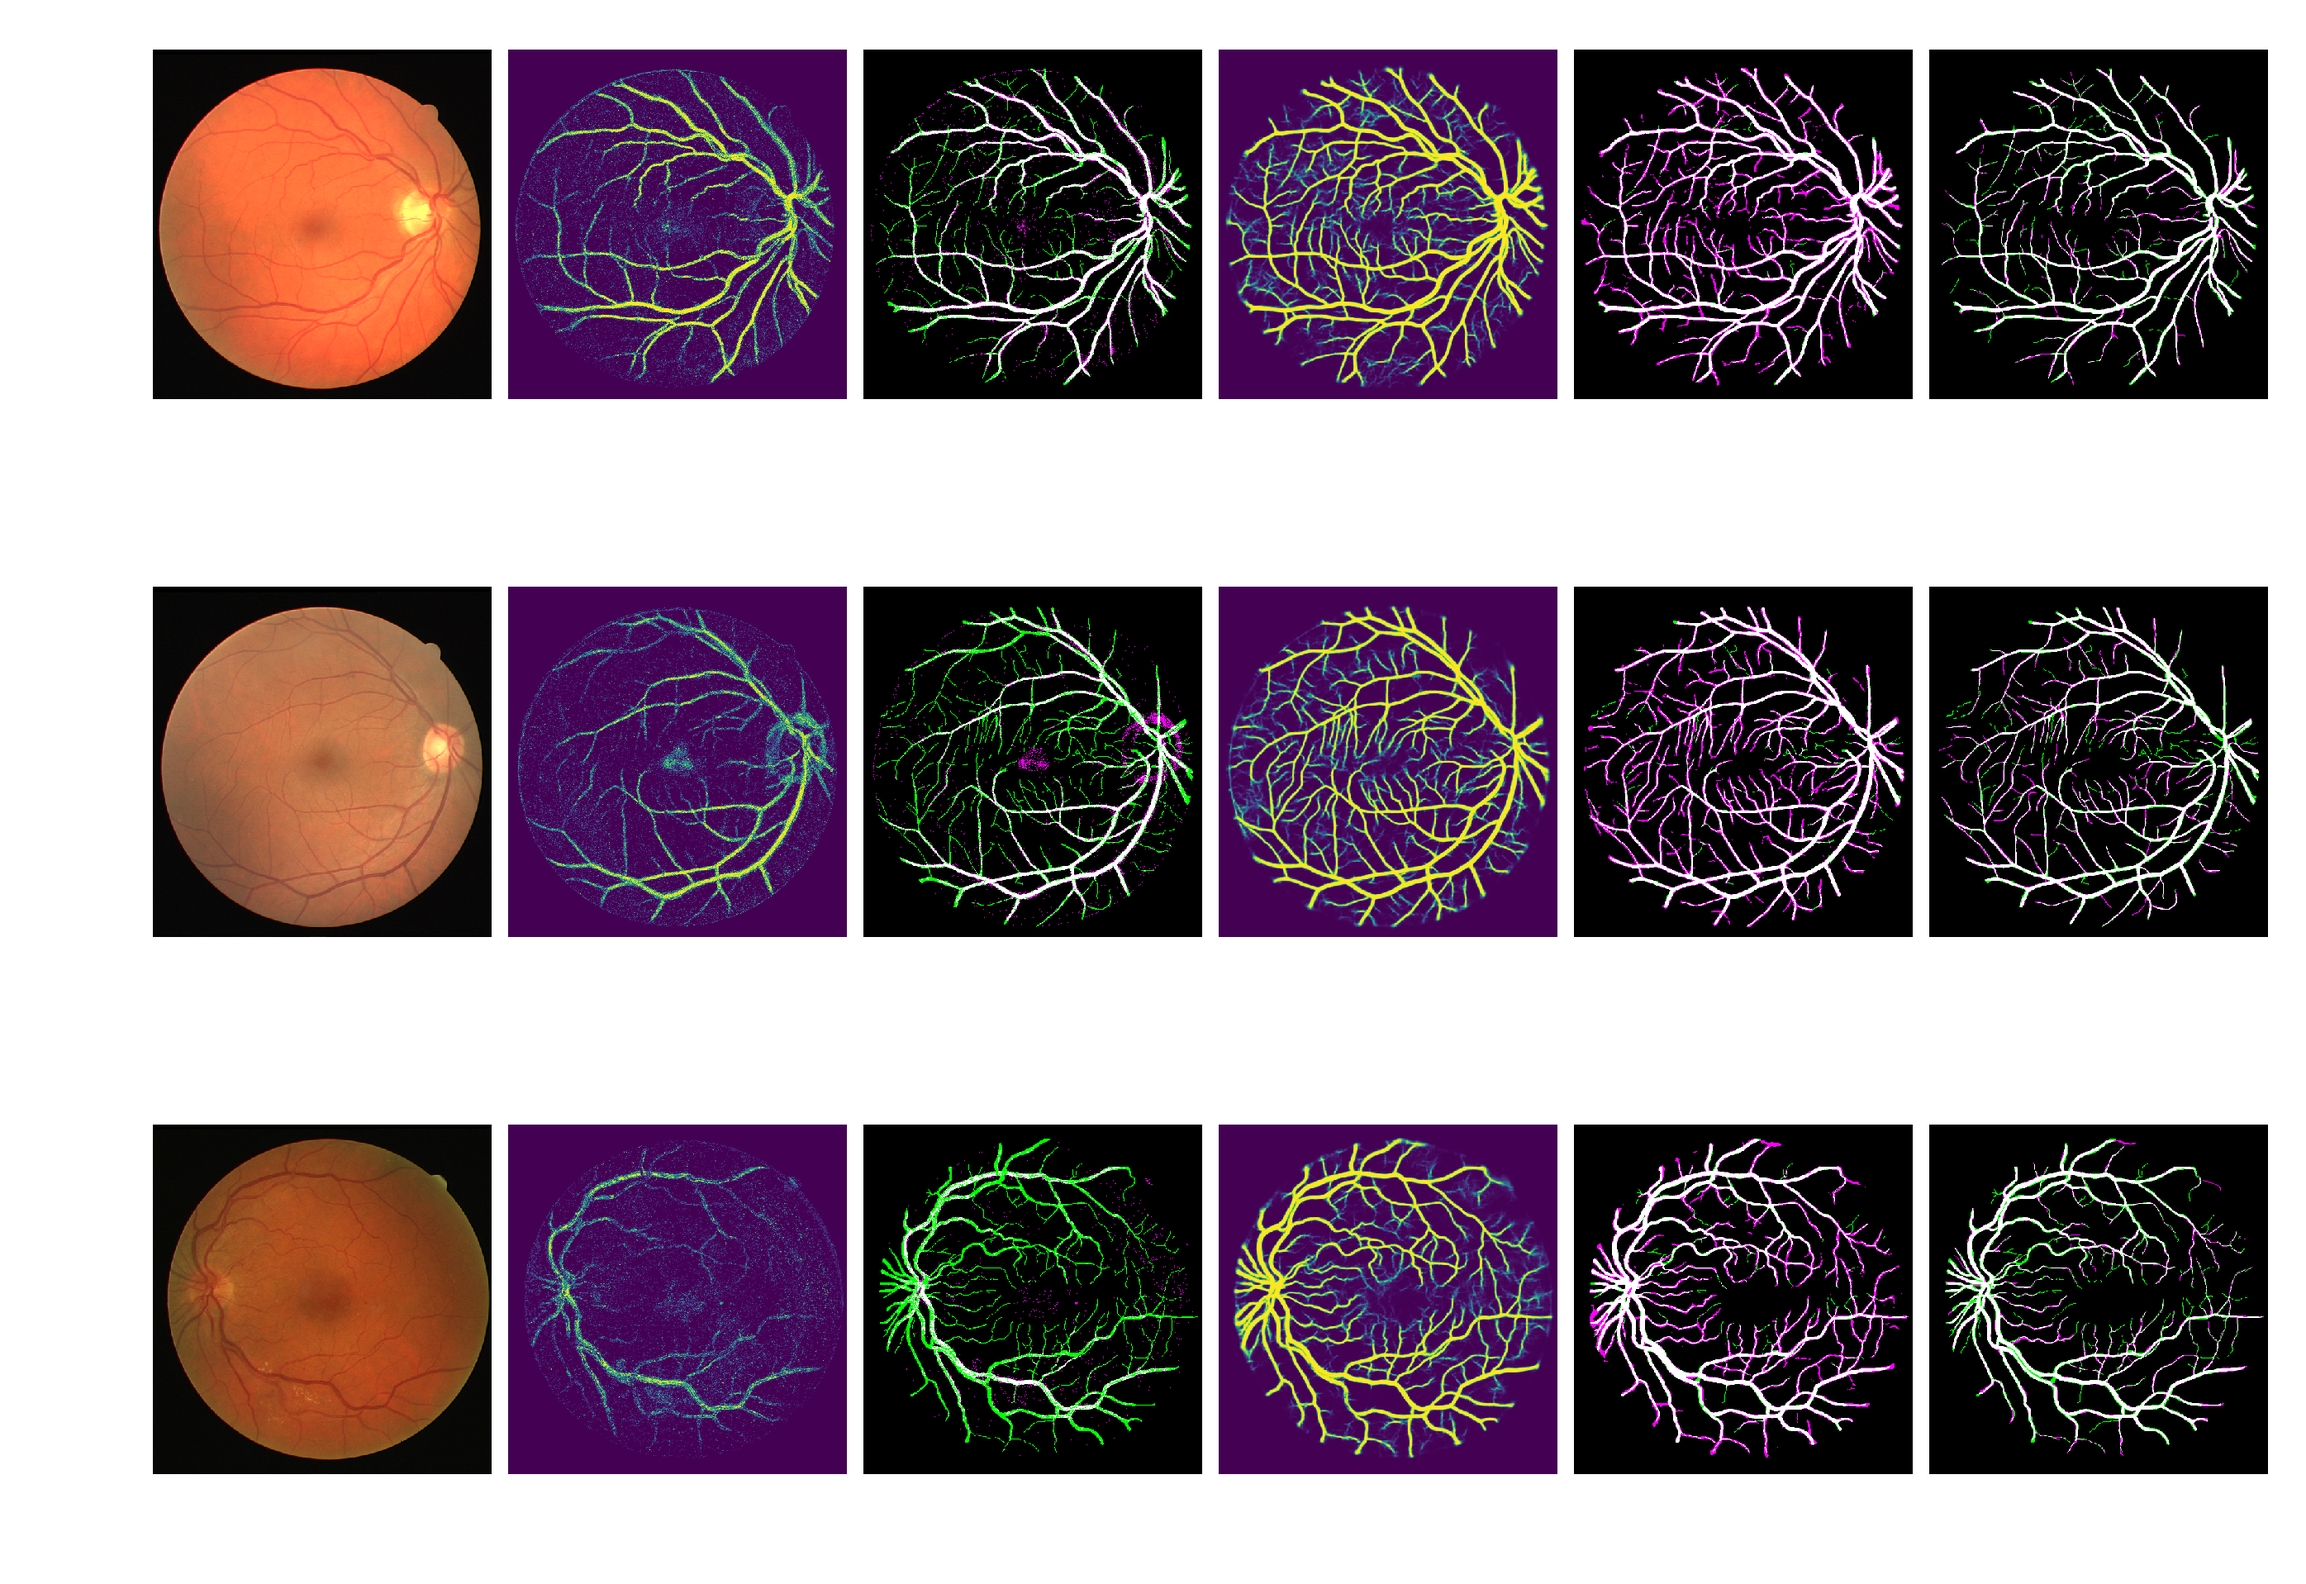
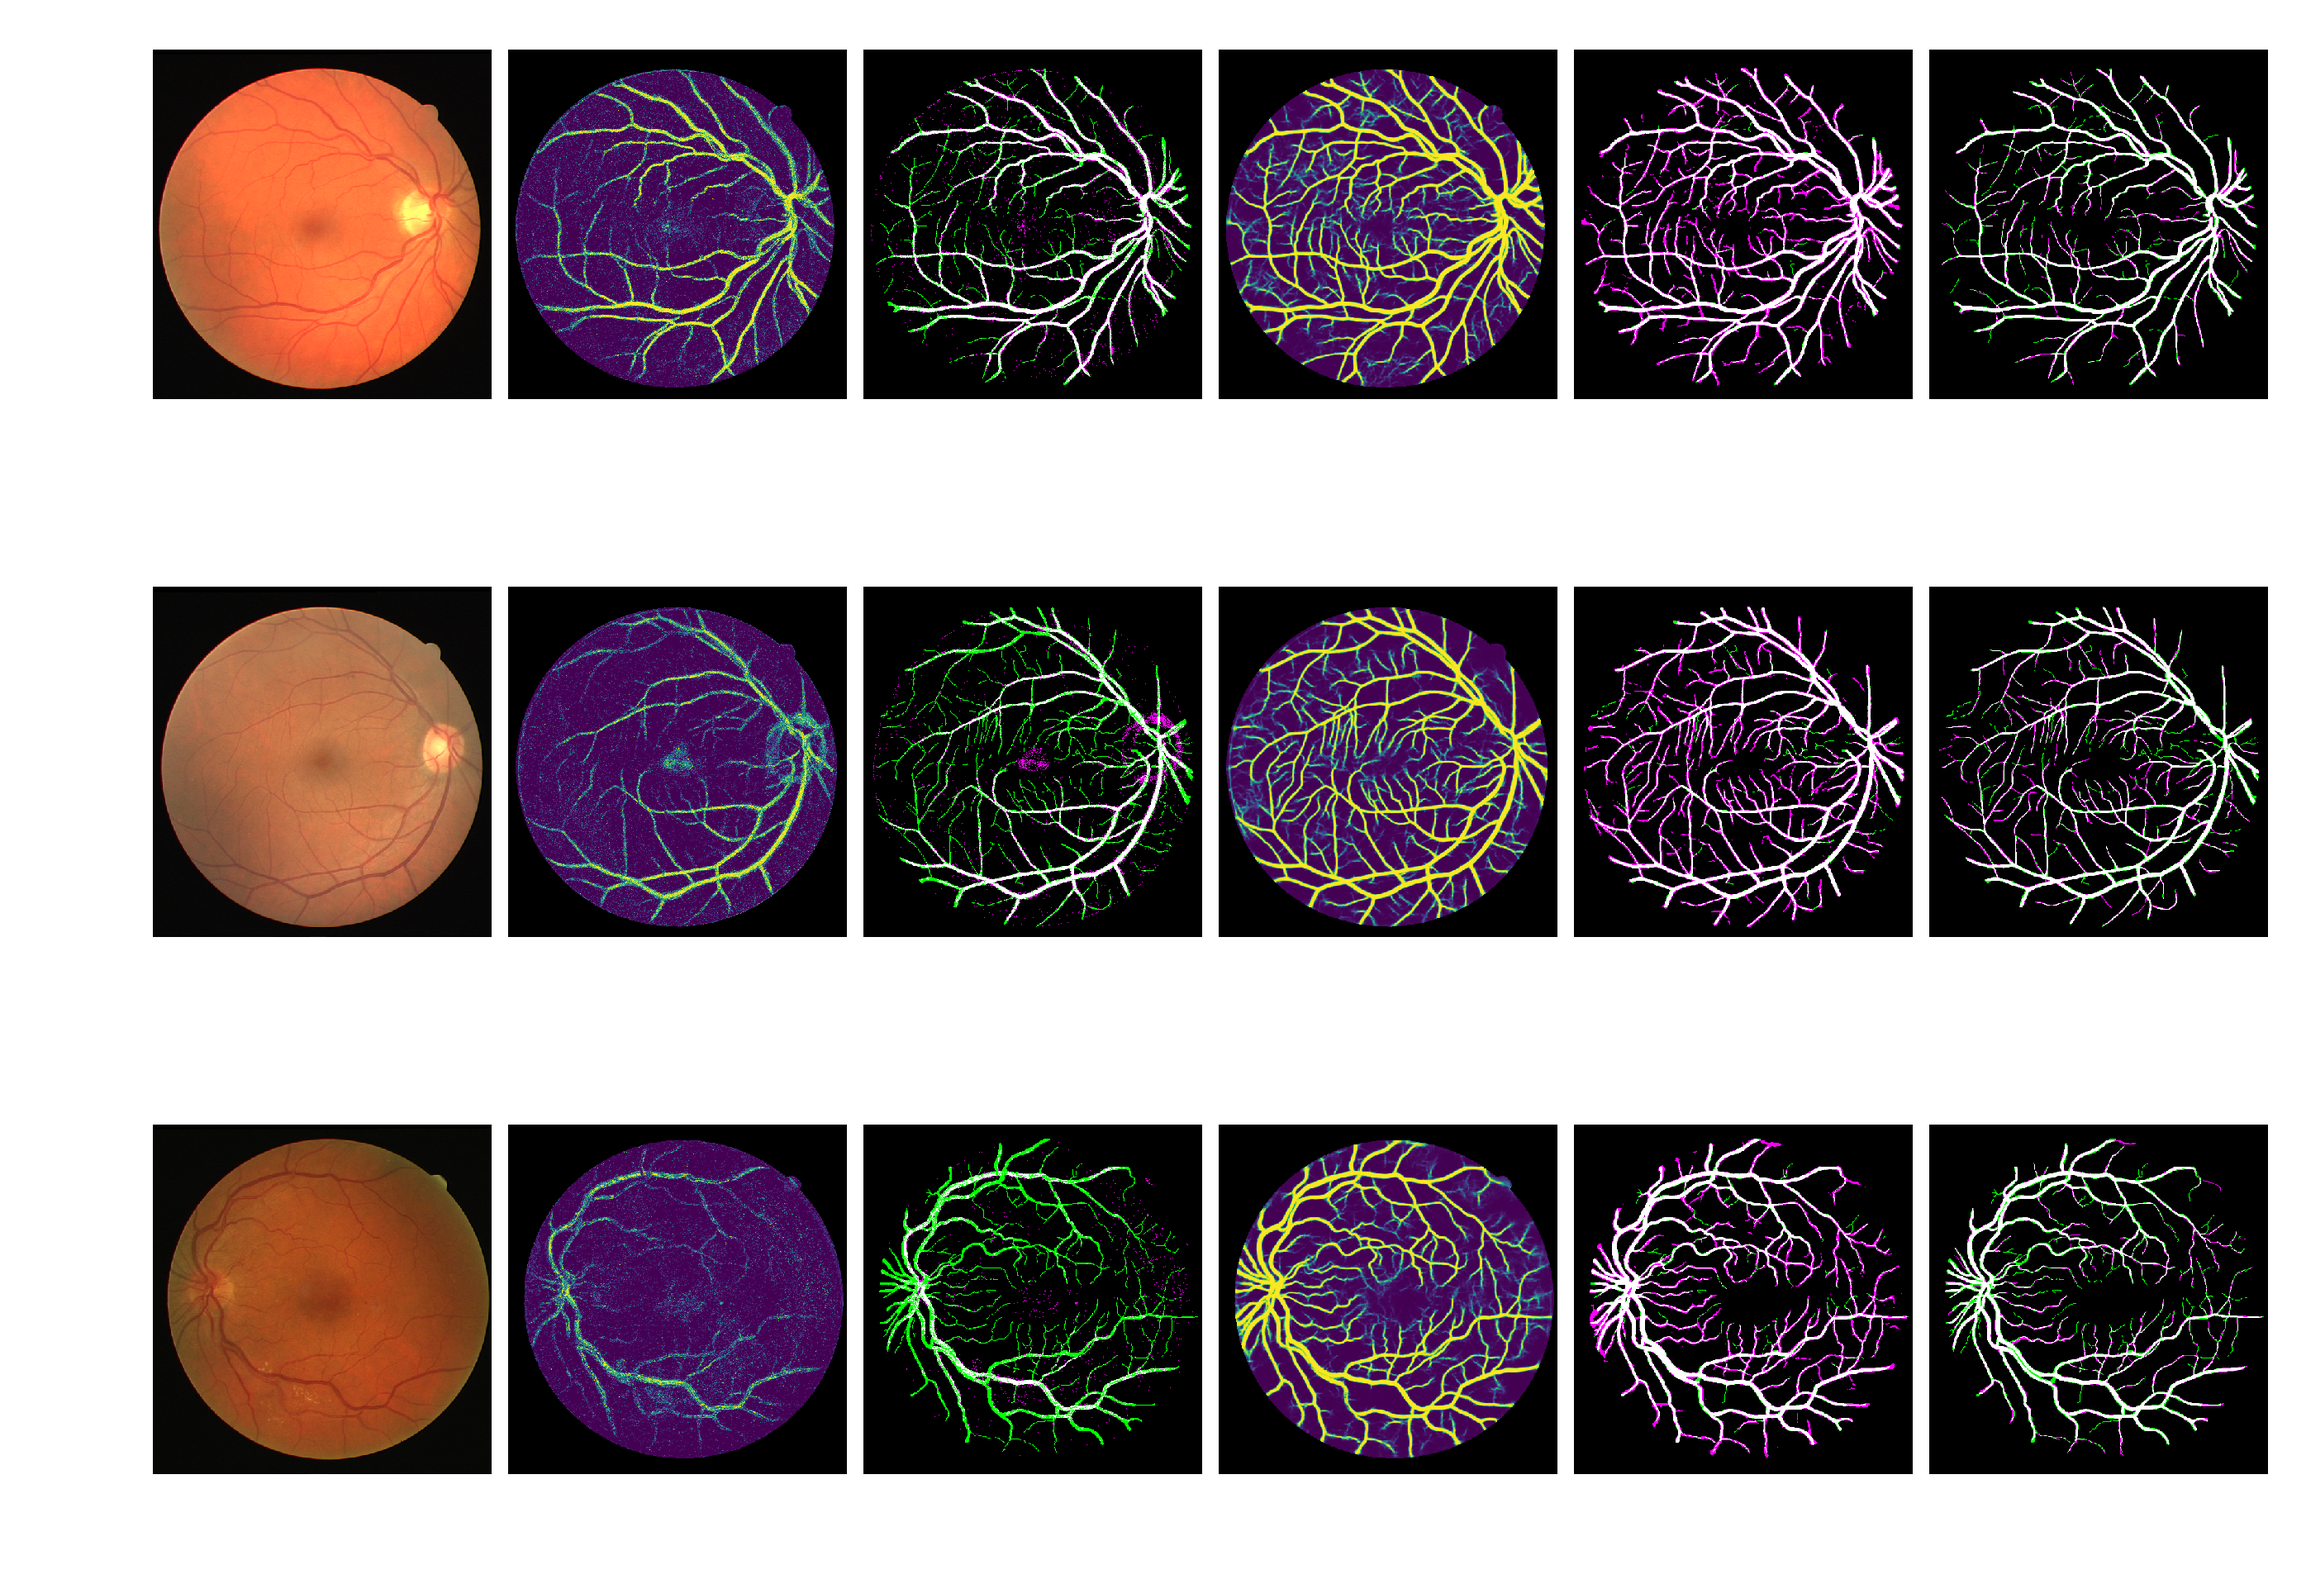
Mask probability maps in collage figure

diff --git a/latex/chapters/3_hands_on.tex b/latex/chapters/3_hands_on.tex
@@ -19,7 +19,7 @@ Figure \ref{fig:collage} shows the segmentation results for the samples with hig
 
 \begin{figure}
   \includegraphics[width=\textwidth]{figures/collage}
-  \caption{Results with highest (top), median (middle) and lowest (bottom) Dice scores using a 0.5 threshold. From left to right: acquired image of the retinal fundus; vessel probabilities using Extra-Trees; comparison of Extra-Trees thresholded probabilities to manual segmentation; vessel probabilities using DRIU; comparison of DRIU thresholded probabilities to manual segmentation; comparison of manual segmentation from first and second annotators. When comparing the binary images: first annotator is taken as groud truth; white pixels represent true positives; black pixels represent true negatives; magenta pixels represent false positives; and green pixels represent false negatives.} \label{fig:collage}
+  \caption{Results with highest (top), median (middle) and lowest (bottom) Dice scores using a 0.5 threshold. From left to right: acquired image of the retinal fundus; vessel probabilities using Extra-Trees; comparison of Extra-Trees thresholded probabilities to manual segmentation; vessel probabilities using DRIU; comparison of DRIU thresholded probabilities to manual segmentation; comparison of manual segmentation from first and second annotators. When comparing the binary images: first annotator is taken as groud truth; white pixels represent true positives; black pixels represent true negatives; magenta pixels represent false positives; and green pixels represent false negatives. The probability maps have been masked to show only the acquired field of view; higher lightness represents higher foreground probability} \label{fig:collage}
 \end{figure}
 
 Figure \ref{fig:dice} shows all the Dice scores for both methods.

diff --git a/scripts/report/make_collage.py b/scripts/report/make_collage.py
@@ -34,15 +34,12 @@ for row, sample in enumerate(samples):
     labels1 = sample.labels
     axes[row, 0].imshow(sample.rgb_data)
     prediction = normalise(im.read(sample.prediction_prob_path))
-    axes[row, 1].imshow(prediction)
+    axes[row, 1].imshow(im.grey2rgb(prediction, mask=sample.mask))
     driu = normalise(im.read(sample.driu_path).astype(float))
     axes[row, 2].imshow(im.compare(labels1, prediction > 0.5))
-    axes[row, 3].imshow(driu)
+    axes[row, 3].imshow(im.grey2rgb(driu, mask=sample.mask))
     axes[row, 4].imshow(im.compare(labels1, driu > 0.5))
     labels2 = normalise(im.read(sample.manual_2_path)[..., 0])
-    import numpy as np
-    print(np.unique(labels1))
-    print(np.unique(labels2))
     axes[row, 5].imshow(im.compare(labels1, labels2))
 
 # This does not seem to work
